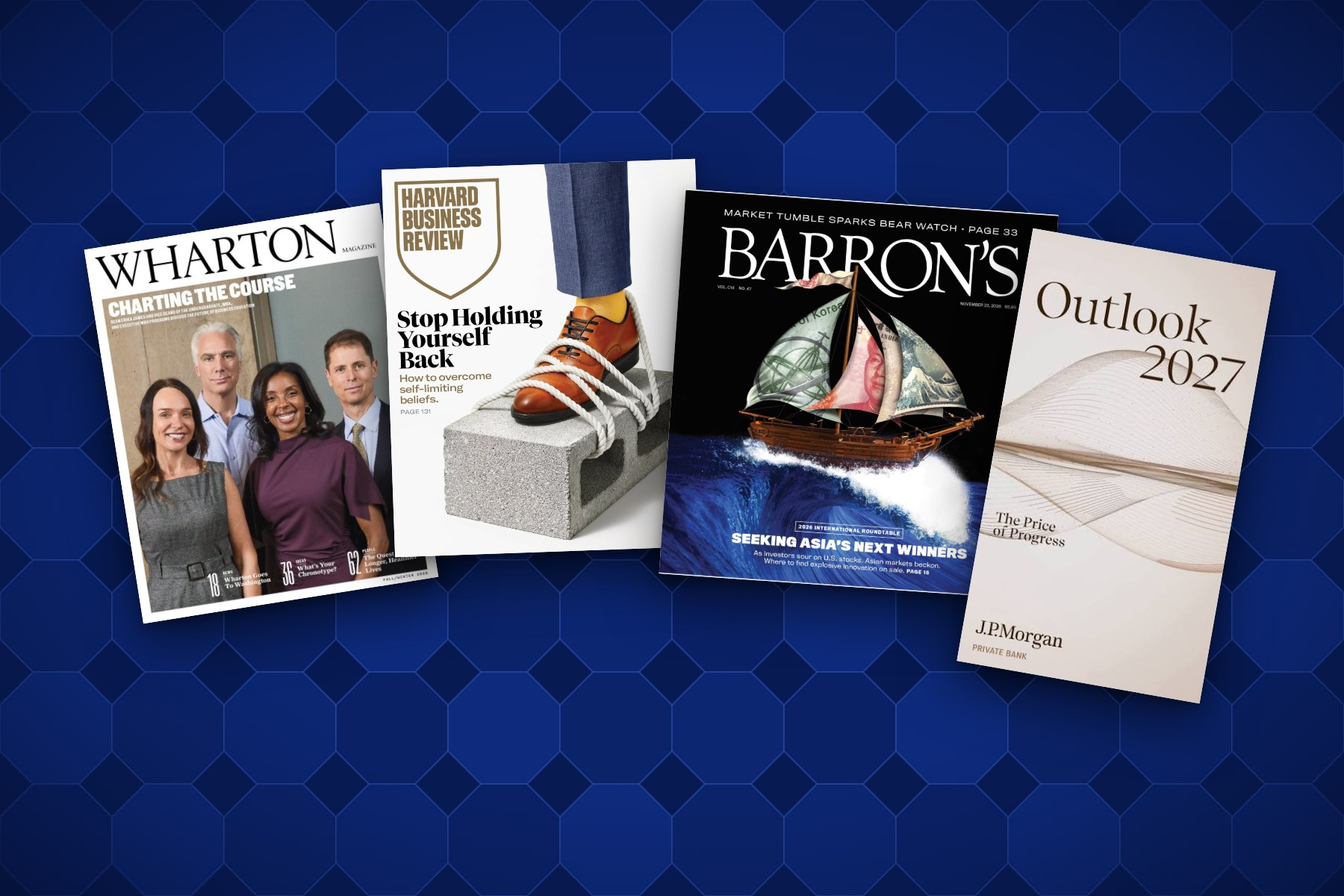
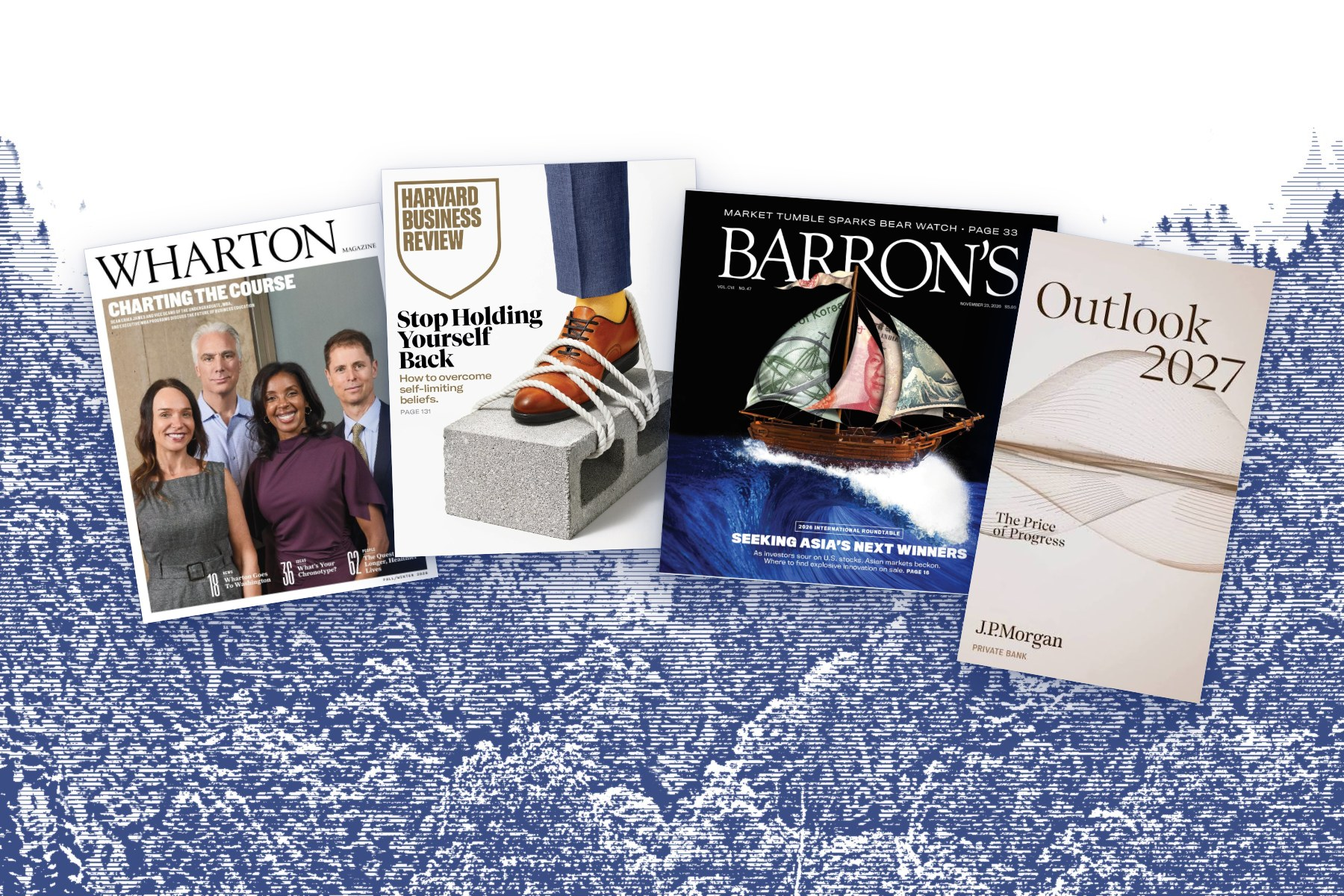
Internal Goal images: engraved forest and mountain drawings; Jonah Begley back as Member & Co-Founder (Equities: Tech)
Claude-Session: https://claude.ai/code/session_01XXFitNW75T7fmA4nKLMVQM

diff --git a/investment-team.html b/investment-team.html
@@ -30,7 +30,7 @@
 // Starts on the dome clip (8s into the second file), then cycles: first clip, second clip, repeat.
 (function(){const v=document.getElementById('teamVideo'),list=['/media/apply-brown.mp4','/media/apply-dartmouth.mp4'];let i=-1;v.addEventListener('ended',()=>{i=(i+1)%list.length;v.src=list[i];v.play().catch(()=>{})});})();
 </script>
-<section class="rtabs" id="research"><div class="rt-head"><h2 class="rv">Research Teams</h2></div><div class="rt-bar"><div class="rt-tabs" role="tablist" aria-label="Research teams"><span class="rt-ind" aria-hidden="true"></span><button role="tab" id="t-quantitative-strategies" aria-controls="p-quantitative-strategies" aria-selected="true" tabindex="0">Global Quantitative Strategies</button><button role="tab" id="t-venture-capital" aria-controls="p-venture-capital" aria-selected="false" tabindex="-1">Venture Capital</button><button role="tab" id="t-equities-tech" aria-controls="p-equities-tech" aria-selected="false" tabindex="-1">Equities: Tech</button><button role="tab" id="t-equities-retail" aria-controls="p-equities-retail" aria-selected="false" tabindex="-1">Equities: Retail</button><button role="tab" id="t-equities-financials" aria-controls="p-equities-financials" aria-selected="false" tabindex="-1">Equities: Financials</button><button role="tab" id="t-equities-industrials" aria-controls="p-equities-industrials" aria-selected="false" tabindex="-1">Equities: Industrials</button><button role="tab" id="t-energy-infrastructure" aria-controls="p-energy-infrastructure" aria-selected="false" tabindex="-1">Energy &amp; Infrastructure</button><button role="tab" id="t-fixed-income" aria-controls="p-fixed-income" aria-selected="false" tabindex="-1">Fixed Income</button><button role="tab" id="t-real-estate" aria-controls="p-real-estate" aria-selected="false" tabindex="-1">Real Estate</button></div></div><div class="rt-body"><div class="rt-panel on" role="tabpanel" id="p-quantitative-strategies" aria-labelledby="t-quantitative-strategies"><div class="rt-top"><h3>Global Quantitative Strategies</h3><p>Builds and tests systematic strategies using market, macroeconomic, and alternative data across global asset classes.</p></div><div class="pgrid"><a class="pc d0" href="https://www.linkedin.com/in/andrew-watcharananan-627aa9348/" target="_blank" rel="noopener"><h3>Andrew Watcharananan</h3><p class="pt">Portfolio Manager</p><p class="ps">Columbia University</p><div class="ph pic"><img src="/media/people/andrew-watcharananan.jpg" alt="Andrew Watcharananan" loading="lazy"></div></a><a class="pc d1" href="https://www.linkedin.com/in/johnny-guo-212bb22a5/" target="_blank" rel="noopener"><h3>Johnny Guo</h3><p class="pt">Associate Portfolio Manager</p><p class="ps">Yale University</p><div class="ph pic"><img src="/media/people/johnny-guo.jpg" alt="Johnny Guo" loading="lazy"></div></a><a class="pc d2" href="https://www.linkedin.com/in/varis-karuhadej-542616330/" target="_blank" rel="noopener"><h3>Dean Karuhadej</h3><p class="pt">Associate Portfolio Manager</p><p class="ps">Columbia University</p><div class="ph pic"><img src="/media/people/dean-karuhadej.jpg" alt="Dean Karuhadej" loading="lazy"></div></a><a class="pc d3" href="https://www.linkedin.com/in/ryancasey-/" target="_blank" rel="noopener"><h3>Ryan Casey</h3><p class="pt">Associate Portfolio Manager</p><p class="ps">Harvard University</p><div class="ph pic"><img src="/media/people/ryan-casey.jpg" alt="Ryan Casey" loading="lazy"></div></a><a class="pc d0" href="https://www.linkedin.com/in/aituar-kurmambay-4238bb3a1/" target="_blank" rel="noopener"><h3>Aituar Kurmambay</h3><p class="pt">Associate Portfolio Manager</p><p class="ps">Columbia University</p><div class="ph pic"><img src="/media/people/aituar-kurmambay.jpg" alt="Aituar Kurmambay" loading="lazy"></div></a><a class="pc d1" href="https://www.linkedin.com/in/giacomo-maffre/" target="_blank" rel="noopener"><h3>Giacomo Maffre</h3><p class="pt">Member</p><p class="ps">University of Pennsylvania</p><div class="ph pic"><img src="/media/people/giacomo-maffre.jpg?v=2" alt="Giacomo Maffre" loading="lazy"></div></a></div></div><div class="rt-panel" role="tabpanel" id="p-venture-capital" aria-labelledby="t-venture-capital" hidden><div class="rt-top"><h3>Venture Capital</h3><p>Sources and evaluates early-stage private companies, covering markets, founders, and deal terms.</p></div><div class="pgrid"><a class="pc d0" href="https://www.linkedin.com/in/ryan-watach/" target="_blank" rel="noopener"><h3>Ryan Watach</h3><p class="pt">Portfolio Manager</p><p class="ps">University of Pennsylvania</p><div class="ph pic"><img src="/media/people/ryan-watach.jpg" alt="Ryan Watach" loading="lazy"></div></a><a class="pc d1" href="https://www.linkedin.com/in/stanley-yang-933652369/" target="_blank" rel="noopener"><h3>Stanley Yang</h3><p class="pt">Associate Portfolio Manager</p><p class="ps">University of Pennsylvania</p><div class="ph pic"><img src="/media/people/stanley-yang.jpg" alt="Stanley Yang" loading="lazy"></div></a><article class="pc d2"><h3>First Last</h3><p class="pt">Associate Portfolio Manager</p><p class="ps">School</p><div class="ph"><span></span></div></article><a class="pc d3" href="https://www.linkedin.com/in/james-horangic-314026364/" target="_blank" rel="noopener"><h3>James Horangic</h3><p class="pt">Member</p><p class="ps">University of Pennsylvania</p><div class="ph pic"><img src="/media/people/james-horangic.jpg" alt="James Horangic" loading="lazy"></div></a></div></div><div class="rt-panel" role="tabpanel" id="p-equities-tech" aria-labelledby="t-equities-tech" hidden><div class="rt-top"><h3>Equities: Tech</h3><p>Covers public technology companies, including software, semiconductors, and internet platforms.</p></div><div class="pgrid"><article class="pc d0"><h3>First Last</h3><p class="pt">Portfolio Manager</p><p class="ps">School</p><div class="ph"><span></span></div></article><article class="pc d1"><h3>First Last</h3><p class="pt">Associate Portfolio Manager</p><p class="ps">School</p><div class="ph"><span></span></div></article><article class="pc d2"><h3>First Last</h3><p class="pt">Associate Portfolio Manager</p><p class="ps">School</p><div class="ph"><span></span></div></article><a class="pc d3" href="https://www.linkedin.com/in/david-bratucu/" target="_blank" rel="noopener"><h3>David Bratucu</h3><p class="pt">Member</p><p class="ps">University of Pennsylvania</p><div class="ph pic"><img src="/media/people/david-bratucu.jpg" alt="David Bratucu" loading="lazy"></div></a><a class="pc d0" href="https://www.linkedin.com/in/sisixu08/" target="_blank" rel="noopener"><h3>Sisi Xu</h3><p class="pt">Member</p><p class="ps">Cornell University</p><div class="ph pic"><img src="/media/people/sisi-xu.jpg" alt="Sisi Xu" loading="lazy"></div></a><a class="pc d1" href="https://www.linkedin.com/in/amelie-piergentili-b832072a5/" target="_blank" rel="noopener"><h3>Amelie Piergentili</h3><p class="pt">Member</p><p class="ps">Columbia University</p><div class="ph pic"><img src="/media/people/amelie-piergentili.jpg" alt="Amelie Piergentili" loading="lazy"></div></a><a class="pc d2" href="https://www.linkedin.com/in/rasmus-suonio/" target="_blank" rel="noopener"><h3>Rasmus Suonio</h3><p class="pt">Member</p><p class="ps">University of Pennsylvania</p><div class="ph pic"><img src="/media/people/rasmus-suonio.jpg" alt="Rasmus Suonio" loading="lazy"></div></a></div></div><div class="rt-panel" role="tabpanel" id="p-equities-retail" aria-labelledby="t-equities-retail" hidden><div class="rt-top"><h3>Equities: Retail</h3><p>Covers public consumer and retail companies, tracking spending trends, margins, and brands.</p></div><div class="pgrid"><article class="pc d0"><h3>First Last</h3><p class="pt">Portfolio Manager</p><p class="ps">School</p><div class="ph"><span></span></div></article><a class="pc d1" href="https://www.linkedin.com/in/buhlebenkosi-mhlongo-895285361/" target="_blank" rel="noopener"><h3>Buhlebenkosi Mhlongo</h3><p class="pt">Associate Portfolio Manager</p><p class="ps">Harvard University</p><div class="ph pic"><img src="/media/people/buhlebenkosi-mhlongo.jpg" alt="Buhlebenkosi Mhlongo" loading="lazy"></div></a><article class="pc d2"><h3>First Last</h3><p class="pt">Associate Portfolio Manager</p><p class="ps">School</p><div class="ph"><span></span></div></article><a class="pc d3" href="https://www.linkedin.com/in/luke-w-pierce/" target="_blank" rel="noopener"><h3>Luke Pierce</h3><p class="pt">Member</p><p class="ps">Princeton University</p><div class="ph pic"><img src="/media/people/luke-pierce.jpg" alt="Luke Pierce" loading="lazy"></div></a><a class="pc d0" href="https://www.linkedin.com/in/lela-dicrescenzo-b72959371/" target="_blank" rel="noopener"><h3>Lela DiCrescenzo</h3><p class="pt">Member</p><p class="ps">Columbia University</p><div class="ph pic"><img src="/media/people/lela-dicrescenzo.jpg" alt="Lela DiCrescenzo" loading="lazy"></div></a></div></div><div class="rt-panel" role="tabpanel" id="p-equities-financials" aria-labelledby="t-equities-financials" hidden><div class="rt-top"><h3>Equities: Financials</h3><p>Covers public banks, insurers, asset managers, and payments companies, tracking rates, credit quality, and capital.</p></div><div class="pgrid"><a class="pc d0" href="https://www.linkedin.com/in/asherwan/" target="_blank" rel="noopener"><h3>Asher Wan</h3><p class="pt">Portfolio Manager</p><p class="ps">University of Pennsylvania</p><div class="ph pic"><img src="/media/people/asher-wan.jpg" alt="Asher Wan" loading="lazy"></div></a><article class="pc d1"><h3>First Last</h3><p class="pt">Associate Portfolio Manager</p><p class="ps">School</p><div class="ph"><span></span></div></article><article class="pc d2"><h3>First Last</h3><p class="pt">Associate Portfolio Manager</p><p class="ps">School</p><div class="ph"><span></span></div></article><a class="pc d3" href="https://www.linkedin.com/in/daniel-adibi-05885a239/" target="_blank" rel="noopener"><h3>Daniel Adibi</h3><p class="pt">Member</p><p class="ps">Harvard University</p><div class="ph pic"><img src="/media/people/daniel-adibi.jpg" alt="Daniel Adibi" loading="lazy"></div></a><a class="pc d0" href="https://www.linkedin.com/in/krish-bharwani-aa0626313/" target="_blank" rel="noopener"><h3>Krish Bharwani</h3><p class="pt">Member</p><p class="ps">Princeton University</p><div class="ph"><span></span></div></a></div></div><div class="rt-panel" role="tabpanel" id="p-equities-industrials" aria-labelledby="t-equities-industrials" hidden><div class="rt-top"><h3>Equities: Industrials</h3><p>Covers public industrial companies, including aerospace, defense, machinery, and transportation, tracking orders, backlogs, and margins.</p></div><div class="pgrid"><a class="pc d0" href="https://www.linkedin.com/in/adam-polzien-0a29a1262/" target="_blank" rel="noopener"><h3>Adam Polzien</h3><p class="pt">Portfolio Manager</p><p class="ps">University of Pennsylvania</p><div class="ph pic"><img src="/media/people/adam-polzien.jpg" alt="Adam Polzien" loading="lazy"></div></a><article class="pc d1"><h3>First Last</h3><p class="pt">Associate Portfolio Manager</p><p class="ps">School</p><div class="ph"><span></span></div></article><article class="pc d2"><h3>First Last</h3><p class="pt">Associate Portfolio Manager</p><p class="ps">School</p><div class="ph"><span></span></div></article><a class="pc d3" href="https://www.linkedin.com/in/hugoeechaute/" target="_blank" rel="noopener"><h3>Hugo Eechaute</h3><p class="pt">Member</p><p class="ps">Columbia University</p><div class="ph pic"><img src="/media/people/hugo-eechaute.jpg" alt="Hugo Eechaute" loading="lazy"></div></a><a class="pc d0" href="https://www.linkedin.com/in/aura-ackerman-sandoval-3507b33ba/" target="_blank" rel="noopener"><h3>Aura Ackerman Sandoval</h3><p class="pt">Member</p><p class="ps">Columbia University</p><div class="ph pic"><img src="/media/people/aura-ackerman-sandoval.jpg" alt="Aura Ackerman Sandoval" loading="lazy"></div></a></div></div><div class="rt-panel" role="tabpanel" id="p-energy-infrastructure" aria-labelledby="t-energy-infrastructure" hidden><div class="rt-top"><h3>Energy &amp; Infrastructure</h3><p>Covers oil, gas, power, renewables, and infrastructure, tracking commodity prices, supply, and policy.</p></div><div class="pgrid"><a class="pc d0" href="https://www.linkedin.com/in/arnusikon/" target="_blank" rel="noopener"><h3>Arna Rakhimbergenova</h3><p class="pt">Portfolio Manager</p><p class="ps">University of Pennsylvania</p><div class="ph pic"><img src="/media/people/arna-rakhimbergenova.jpg" alt="Arna Rakhimbergenova" loading="lazy"></div></a><article class="pc d1"><h3>First Last</h3><p class="pt">Associate Portfolio Manager</p><p class="ps">School</p><div class="ph"><span></span></div></article><article class="pc d2"><h3>First Last</h3><p class="pt">Associate Portfolio Manager</p><p class="ps">School</p><div class="ph"><span></span></div></article><a class="pc d3" href="https://www.linkedin.com/in/fateh-arif-kerimli/" target="_blank" rel="noopener"><h3>Fateh Arif Kerimli</h3><p class="pt">Member &amp; Co-Founder</p><p class="ps">Columbia University</p><div class="ph pic"><img src="/media/people/fateh-arif-kerimli.jpg" alt="Fateh Arif Kerimli" loading="lazy"></div></a></div></div><div class="rt-panel" role="tabpanel" id="p-fixed-income" aria-labelledby="t-fixed-income" hidden><div class="rt-top"><h3>Fixed Income</h3><p>Analyzes government and corporate bonds, credit spreads, and interest-rate positioning.</p></div><div class="pgrid"><article class="pc d0"><h3>First Last</h3><p class="pt">Portfolio Manager</p><p class="ps">School</p><div class="ph"><span></span></div></article><a class="pc d1" href="https://www.linkedin.com/in/manuel-trelles-a559a437a/" target="_blank" rel="noopener"><h3>Manuel Trelles</h3><p class="pt">Associate Portfolio Manager</p><p class="ps">Columbia University</p><div class="ph pic"><img src="/media/people/manuel-trelles.jpg" alt="Manuel Trelles" loading="lazy"></div></a><article class="pc d2"><h3>First Last</h3><p class="pt">Associate Portfolio Manager</p><p class="ps">School</p><div class="ph"><span></span></div></article><a class="pc d3" href="https://www.linkedin.com/in/jiminkarenpark/" target="_blank" rel="noopener"><h3>Karen Park</h3><p class="pt">Member</p><p class="ps">Dartmouth College</p><div class="ph pic"><img src="/media/people/karen-park.jpg" alt="Karen Park" loading="lazy"></div></a><a class="pc d0" href="https://www.linkedin.com/in/ethanwind/" target="_blank" rel="noopener"><h3>Ethan Wind</h3><p class="pt">Member</p><p class="ps">University of Pennsylvania</p><div class="ph pic"><img src="/media/people/ethan-wind.jpg" alt="Ethan Wind" loading="lazy"></div></a></div></div><div class="rt-panel" role="tabpanel" id="p-real-estate" aria-labelledby="t-real-estate" hidden><div class="rt-top"><h3>Real Estate</h3><p>Covers REITs and property markets, including valuation, financing conditions, and sector trends.</p></div><div class="pgrid"><a class="pc d0" href="https://www.linkedin.com/in/pavani-rhoads-0348582a5/" target="_blank" rel="noopener"><h3>Pavani Rhoads</h3><p class="pt">Portfolio Manager</p><p class="ps">Columbia University</p><div class="ph pic"><img src="/media/people/pavani-rhoads.jpg" alt="Pavani Rhoads" loading="lazy"></div></a><article class="pc d1"><h3>First Last</h3><p class="pt">Associate Portfolio Manager</p><p class="ps">School</p><div class="ph"><span></span></div></article><article class="pc d2"><h3>First Last</h3><p class="pt">Associate Portfolio Manager</p><p class="ps">School</p><div class="ph"><span></span></div></article><a class="pc d3" href="https://www.linkedin.com/in/albert-armin-07110026b/" target="_blank" rel="noopener"><h3>Albert Armin</h3><p class="pt">Member</p><p class="ps">University of Pennsylvania</p><div class="ph pic"><img src="/media/people/albert-armin.jpg" alt="Albert Armin" loading="lazy"></div></a><a class="pc d0" href="https://www.linkedin.com/in/skalochoritis/" target="_blank" rel="noopener"><h3>Sophia Kalochoritis</h3><p class="pt">Member</p><p class="ps">Columbia University</p><div class="ph pic"><img src="/media/people/sophia-kalochoritis.jpg" alt="Sophia Kalochoritis" loading="lazy"></div></a></div></div></div></section>
+<section class="rtabs" id="research"><div class="rt-head"><h2 class="rv">Research Teams</h2></div><div class="rt-bar"><div class="rt-tabs" role="tablist" aria-label="Research teams"><span class="rt-ind" aria-hidden="true"></span><button role="tab" id="t-quantitative-strategies" aria-controls="p-quantitative-strategies" aria-selected="true" tabindex="0">Global Quantitative Strategies</button><button role="tab" id="t-venture-capital" aria-controls="p-venture-capital" aria-selected="false" tabindex="-1">Venture Capital</button><button role="tab" id="t-equities-tech" aria-controls="p-equities-tech" aria-selected="false" tabindex="-1">Equities: Tech</button><button role="tab" id="t-equities-retail" aria-controls="p-equities-retail" aria-selected="false" tabindex="-1">Equities: Retail</button><button role="tab" id="t-equities-financials" aria-controls="p-equities-financials" aria-selected="false" tabindex="-1">Equities: Financials</button><button role="tab" id="t-equities-industrials" aria-controls="p-equities-industrials" aria-selected="false" tabindex="-1">Equities: Industrials</button><button role="tab" id="t-energy-infrastructure" aria-controls="p-energy-infrastructure" aria-selected="false" tabindex="-1">Energy &amp; Infrastructure</button><button role="tab" id="t-fixed-income" aria-controls="p-fixed-income" aria-selected="false" tabindex="-1">Fixed Income</button><button role="tab" id="t-real-estate" aria-controls="p-real-estate" aria-selected="false" tabindex="-1">Real Estate</button></div></div><div class="rt-body"><div class="rt-panel on" role="tabpanel" id="p-quantitative-strategies" aria-labelledby="t-quantitative-strategies"><div class="rt-top"><h3>Global Quantitative Strategies</h3><p>Builds and tests systematic strategies using market, macroeconomic, and alternative data across global asset classes.</p></div><div class="pgrid"><a class="pc d0" href="https://www.linkedin.com/in/andrew-watcharananan-627aa9348/" target="_blank" rel="noopener"><h3>Andrew Watcharananan</h3><p class="pt">Portfolio Manager</p><p class="ps">Columbia University</p><div class="ph pic"><img src="/media/people/andrew-watcharananan.jpg" alt="Andrew Watcharananan" loading="lazy"></div></a><a class="pc d1" href="https://www.linkedin.com/in/johnny-guo-212bb22a5/" target="_blank" rel="noopener"><h3>Johnny Guo</h3><p class="pt">Associate Portfolio Manager</p><p class="ps">Yale University</p><div class="ph pic"><img src="/media/people/johnny-guo.jpg" alt="Johnny Guo" loading="lazy"></div></a><a class="pc d2" href="https://www.linkedin.com/in/varis-karuhadej-542616330/" target="_blank" rel="noopener"><h3>Dean Karuhadej</h3><p class="pt">Associate Portfolio Manager</p><p class="ps">Columbia University</p><div class="ph pic"><img src="/media/people/dean-karuhadej.jpg" alt="Dean Karuhadej" loading="lazy"></div></a><a class="pc d3" href="https://www.linkedin.com/in/ryancasey-/" target="_blank" rel="noopener"><h3>Ryan Casey</h3><p class="pt">Associate Portfolio Manager</p><p class="ps">Harvard University</p><div class="ph pic"><img src="/media/people/ryan-casey.jpg" alt="Ryan Casey" loading="lazy"></div></a><a class="pc d0" href="https://www.linkedin.com/in/aituar-kurmambay-4238bb3a1/" target="_blank" rel="noopener"><h3>Aituar Kurmambay</h3><p class="pt">Associate Portfolio Manager</p><p class="ps">Columbia University</p><div class="ph pic"><img src="/media/people/aituar-kurmambay.jpg" alt="Aituar Kurmambay" loading="lazy"></div></a><a class="pc d1" href="https://www.linkedin.com/in/giacomo-maffre/" target="_blank" rel="noopener"><h3>Giacomo Maffre</h3><p class="pt">Member</p><p class="ps">University of Pennsylvania</p><div class="ph pic"><img src="/media/people/giacomo-maffre.jpg?v=2" alt="Giacomo Maffre" loading="lazy"></div></a></div></div><div class="rt-panel" role="tabpanel" id="p-venture-capital" aria-labelledby="t-venture-capital" hidden><div class="rt-top"><h3>Venture Capital</h3><p>Sources and evaluates early-stage private companies, covering markets, founders, and deal terms.</p></div><div class="pgrid"><a class="pc d0" href="https://www.linkedin.com/in/ryan-watach/" target="_blank" rel="noopener"><h3>Ryan Watach</h3><p class="pt">Portfolio Manager</p><p class="ps">University of Pennsylvania</p><div class="ph pic"><img src="/media/people/ryan-watach.jpg" alt="Ryan Watach" loading="lazy"></div></a><a class="pc d1" href="https://www.linkedin.com/in/stanley-yang-933652369/" target="_blank" rel="noopener"><h3>Stanley Yang</h3><p class="pt">Associate Portfolio Manager</p><p class="ps">University of Pennsylvania</p><div class="ph pic"><img src="/media/people/stanley-yang.jpg" alt="Stanley Yang" loading="lazy"></div></a><article class="pc d2"><h3>First Last</h3><p class="pt">Associate Portfolio Manager</p><p class="ps">School</p><div class="ph"><span></span></div></article><a class="pc d3" href="https://www.linkedin.com/in/james-horangic-314026364/" target="_blank" rel="noopener"><h3>James Horangic</h3><p class="pt">Member</p><p class="ps">University of Pennsylvania</p><div class="ph pic"><img src="/media/people/james-horangic.jpg" alt="James Horangic" loading="lazy"></div></a></div></div><div class="rt-panel" role="tabpanel" id="p-equities-tech" aria-labelledby="t-equities-tech" hidden><div class="rt-top"><h3>Equities: Tech</h3><p>Covers public technology companies, including software, semiconductors, and internet platforms.</p></div><div class="pgrid"><article class="pc d0"><h3>First Last</h3><p class="pt">Portfolio Manager</p><p class="ps">School</p><div class="ph"><span></span></div></article><article class="pc d1"><h3>First Last</h3><p class="pt">Associate Portfolio Manager</p><p class="ps">School</p><div class="ph"><span></span></div></article><article class="pc d2"><h3>First Last</h3><p class="pt">Associate Portfolio Manager</p><p class="ps">School</p><div class="ph"><span></span></div></article><a class="pc d3" href="https://www.linkedin.com/in/david-bratucu/" target="_blank" rel="noopener"><h3>David Bratucu</h3><p class="pt">Member</p><p class="ps">University of Pennsylvania</p><div class="ph pic"><img src="/media/people/david-bratucu.jpg" alt="David Bratucu" loading="lazy"></div></a><a class="pc d0" href="https://www.linkedin.com/in/sisixu08/" target="_blank" rel="noopener"><h3>Sisi Xu</h3><p class="pt">Member</p><p class="ps">Cornell University</p><div class="ph pic"><img src="/media/people/sisi-xu.jpg" alt="Sisi Xu" loading="lazy"></div></a><a class="pc d1" href="https://www.linkedin.com/in/amelie-piergentili-b832072a5/" target="_blank" rel="noopener"><h3>Amelie Piergentili</h3><p class="pt">Member</p><p class="ps">Columbia University</p><div class="ph pic"><img src="/media/people/amelie-piergentili.jpg" alt="Amelie Piergentili" loading="lazy"></div></a><a class="pc d2" href="https://www.linkedin.com/in/rasmus-suonio/" target="_blank" rel="noopener"><h3>Rasmus Suonio</h3><p class="pt">Member</p><p class="ps">University of Pennsylvania</p><div class="ph pic"><img src="/media/people/rasmus-suonio.jpg" alt="Rasmus Suonio" loading="lazy"></div></a><a class="pc d3" href="https://www.linkedin.com/in/jonah-begley-b0b92322a/" target="_blank" rel="noopener"><h3>Jonah Begley</h3><p class="pt">Member &amp; Co-Founder</p><p class="ps">University of Pennsylvania</p><div class="ph pic"><img src="/media/people/jonah-begley.jpg" alt="Jonah Begley" loading="lazy"></div></a></div></div><div class="rt-panel" role="tabpanel" id="p-equities-retail" aria-labelledby="t-equities-retail" hidden><div class="rt-top"><h3>Equities: Retail</h3><p>Covers public consumer and retail companies, tracking spending trends, margins, and brands.</p></div><div class="pgrid"><article class="pc d0"><h3>First Last</h3><p class="pt">Portfolio Manager</p><p class="ps">School</p><div class="ph"><span></span></div></article><a class="pc d1" href="https://www.linkedin.com/in/buhlebenkosi-mhlongo-895285361/" target="_blank" rel="noopener"><h3>Buhlebenkosi Mhlongo</h3><p class="pt">Associate Portfolio Manager</p><p class="ps">Harvard University</p><div class="ph pic"><img src="/media/people/buhlebenkosi-mhlongo.jpg" alt="Buhlebenkosi Mhlongo" loading="lazy"></div></a><article class="pc d2"><h3>First Last</h3><p class="pt">Associate Portfolio Manager</p><p class="ps">School</p><div class="ph"><span></span></div></article><a class="pc d3" href="https://www.linkedin.com/in/luke-w-pierce/" target="_blank" rel="noopener"><h3>Luke Pierce</h3><p class="pt">Member</p><p class="ps">Princeton University</p><div class="ph pic"><img src="/media/people/luke-pierce.jpg" alt="Luke Pierce" loading="lazy"></div></a><a class="pc d0" href="https://www.linkedin.com/in/lela-dicrescenzo-b72959371/" target="_blank" rel="noopener"><h3>Lela DiCrescenzo</h3><p class="pt">Member</p><p class="ps">Columbia University</p><div class="ph pic"><img src="/media/people/lela-dicrescenzo.jpg" alt="Lela DiCrescenzo" loading="lazy"></div></a></div></div><div class="rt-panel" role="tabpanel" id="p-equities-financials" aria-labelledby="t-equities-financials" hidden><div class="rt-top"><h3>Equities: Financials</h3><p>Covers public banks, insurers, asset managers, and payments companies, tracking rates, credit quality, and capital.</p></div><div class="pgrid"><a class="pc d0" href="https://www.linkedin.com/in/asherwan/" target="_blank" rel="noopener"><h3>Asher Wan</h3><p class="pt">Portfolio Manager</p><p class="ps">University of Pennsylvania</p><div class="ph pic"><img src="/media/people/asher-wan.jpg" alt="Asher Wan" loading="lazy"></div></a><article class="pc d1"><h3>First Last</h3><p class="pt">Associate Portfolio Manager</p><p class="ps">School</p><div class="ph"><span></span></div></article><article class="pc d2"><h3>First Last</h3><p class="pt">Associate Portfolio Manager</p><p class="ps">School</p><div class="ph"><span></span></div></article><a class="pc d3" href="https://www.linkedin.com/in/daniel-adibi-05885a239/" target="_blank" rel="noopener"><h3>Daniel Adibi</h3><p class="pt">Member</p><p class="ps">Harvard University</p><div class="ph pic"><img src="/media/people/daniel-adibi.jpg" alt="Daniel Adibi" loading="lazy"></div></a><a class="pc d0" href="https://www.linkedin.com/in/krish-bharwani-aa0626313/" target="_blank" rel="noopener"><h3>Krish Bharwani</h3><p class="pt">Member</p><p class="ps">Princeton University</p><div class="ph"><span></span></div></a></div></div><div class="rt-panel" role="tabpanel" id="p-equities-industrials" aria-labelledby="t-equities-industrials" hidden><div class="rt-top"><h3>Equities: Industrials</h3><p>Covers public industrial companies, including aerospace, defense, machinery, and transportation, tracking orders, backlogs, and margins.</p></div><div class="pgrid"><a class="pc d0" href="https://www.linkedin.com/in/adam-polzien-0a29a1262/" target="_blank" rel="noopener"><h3>Adam Polzien</h3><p class="pt">Portfolio Manager</p><p class="ps">University of Pennsylvania</p><div class="ph pic"><img src="/media/people/adam-polzien.jpg" alt="Adam Polzien" loading="lazy"></div></a><article class="pc d1"><h3>First Last</h3><p class="pt">Associate Portfolio Manager</p><p class="ps">School</p><div class="ph"><span></span></div></article><article class="pc d2"><h3>First Last</h3><p class="pt">Associate Portfolio Manager</p><p class="ps">School</p><div class="ph"><span></span></div></article><a class="pc d3" href="https://www.linkedin.com/in/hugoeechaute/" target="_blank" rel="noopener"><h3>Hugo Eechaute</h3><p class="pt">Member</p><p class="ps">Columbia University</p><div class="ph pic"><img src="/media/people/hugo-eechaute.jpg" alt="Hugo Eechaute" loading="lazy"></div></a><a class="pc d0" href="https://www.linkedin.com/in/aura-ackerman-sandoval-3507b33ba/" target="_blank" rel="noopener"><h3>Aura Ackerman Sandoval</h3><p class="pt">Member</p><p class="ps">Columbia University</p><div class="ph pic"><img src="/media/people/aura-ackerman-sandoval.jpg" alt="Aura Ackerman Sandoval" loading="lazy"></div></a></div></div><div class="rt-panel" role="tabpanel" id="p-energy-infrastructure" aria-labelledby="t-energy-infrastructure" hidden><div class="rt-top"><h3>Energy &amp; Infrastructure</h3><p>Covers oil, gas, power, renewables, and infrastructure, tracking commodity prices, supply, and policy.</p></div><div class="pgrid"><a class="pc d0" href="https://www.linkedin.com/in/arnusikon/" target="_blank" rel="noopener"><h3>Arna Rakhimbergenova</h3><p class="pt">Portfolio Manager</p><p class="ps">University of Pennsylvania</p><div class="ph pic"><img src="/media/people/arna-rakhimbergenova.jpg" alt="Arna Rakhimbergenova" loading="lazy"></div></a><article class="pc d1"><h3>First Last</h3><p class="pt">Associate Portfolio Manager</p><p class="ps">School</p><div class="ph"><span></span></div></article><article class="pc d2"><h3>First Last</h3><p class="pt">Associate Portfolio Manager</p><p class="ps">School</p><div class="ph"><span></span></div></article><a class="pc d3" href="https://www.linkedin.com/in/fateh-arif-kerimli/" target="_blank" rel="noopener"><h3>Fateh Arif Kerimli</h3><p class="pt">Member &amp; Co-Founder</p><p class="ps">Columbia University</p><div class="ph pic"><img src="/media/people/fateh-arif-kerimli.jpg" alt="Fateh Arif Kerimli" loading="lazy"></div></a></div></div><div class="rt-panel" role="tabpanel" id="p-fixed-income" aria-labelledby="t-fixed-income" hidden><div class="rt-top"><h3>Fixed Income</h3><p>Analyzes government and corporate bonds, credit spreads, and interest-rate positioning.</p></div><div class="pgrid"><article class="pc d0"><h3>First Last</h3><p class="pt">Portfolio Manager</p><p class="ps">School</p><div class="ph"><span></span></div></article><a class="pc d1" href="https://www.linkedin.com/in/manuel-trelles-a559a437a/" target="_blank" rel="noopener"><h3>Manuel Trelles</h3><p class="pt">Associate Portfolio Manager</p><p class="ps">Columbia University</p><div class="ph pic"><img src="/media/people/manuel-trelles.jpg" alt="Manuel Trelles" loading="lazy"></div></a><article class="pc d2"><h3>First Last</h3><p class="pt">Associate Portfolio Manager</p><p class="ps">School</p><div class="ph"><span></span></div></article><a class="pc d3" href="https://www.linkedin.com/in/jiminkarenpark/" target="_blank" rel="noopener"><h3>Karen Park</h3><p class="pt">Member</p><p class="ps">Dartmouth College</p><div class="ph pic"><img src="/media/people/karen-park.jpg" alt="Karen Park" loading="lazy"></div></a><a class="pc d0" href="https://www.linkedin.com/in/ethanwind/" target="_blank" rel="noopener"><h3>Ethan Wind</h3><p class="pt">Member</p><p class="ps">University of Pennsylvania</p><div class="ph pic"><img src="/media/people/ethan-wind.jpg" alt="Ethan Wind" loading="lazy"></div></a></div></div><div class="rt-panel" role="tabpanel" id="p-real-estate" aria-labelledby="t-real-estate" hidden><div class="rt-top"><h3>Real Estate</h3><p>Covers REITs and property markets, including valuation, financing conditions, and sector trends.</p></div><div class="pgrid"><a class="pc d0" href="https://www.linkedin.com/in/pavani-rhoads-0348582a5/" target="_blank" rel="noopener"><h3>Pavani Rhoads</h3><p class="pt">Portfolio Manager</p><p class="ps">Columbia University</p><div class="ph pic"><img src="/media/people/pavani-rhoads.jpg" alt="Pavani Rhoads" loading="lazy"></div></a><article class="pc d1"><h3>First Last</h3><p class="pt">Associate Portfolio Manager</p><p class="ps">School</p><div class="ph"><span></span></div></article><article class="pc d2"><h3>First Last</h3><p class="pt">Associate Portfolio Manager</p><p class="ps">School</p><div class="ph"><span></span></div></article><a class="pc d3" href="https://www.linkedin.com/in/albert-armin-07110026b/" target="_blank" rel="noopener"><h3>Albert Armin</h3><p class="pt">Member</p><p class="ps">University of Pennsylvania</p><div class="ph pic"><img src="/media/people/albert-armin.jpg" alt="Albert Armin" loading="lazy"></div></a><a class="pc d0" href="https://www.linkedin.com/in/skalochoritis/" target="_blank" rel="noopener"><h3>Sophia Kalochoritis</h3><p class="pt">Member</p><p class="ps">Columbia University</p><div class="ph pic"><img src="/media/people/sophia-kalochoritis.jpg" alt="Sophia Kalochoritis" loading="lazy"></div></a></div></div></div></section>
 <script src="/research-tabs.js"></script>
 
 <footer>

diff --git a/what-we-do.html b/what-we-do.html
@@ -33,7 +33,7 @@
   </div>
   <div class="gl-item" id="internal">
     <button class="gl-row" type="button" aria-expanded="false"><span>Internal Goal</span><i class="gl-pm" aria-hidden="true"></i></button>
-    <div class="gl-panel"><div class="gl-inner"><ul class="gl-subs"><li><button class="gl-sub on" type="button">Recruiting &amp; Education</button></li><li><button class="gl-sub" type="button">Committee Research</button></li><li><button class="gl-sub" type="button">Quarter Close &amp; Review</button></li><li><button class="gl-sub" type="button">Q1 Report Published</button></li><li><button class="gl-sub" type="button">Investment</button></li></ul><div class="gl-texts"><div class="gl-text on"><h3>Recruiting &amp; Education</h3><p class="gl-k">When</p><p class="gl-v">January&ndash;February</p><p class="gl-p">Each chapter recruits new analysts at its school through applications and interviews. New members then complete the internal curriculum, with sessions led by senior members.</p><a class="gl-btn" href="/application.html">Apply Now</a></div><div class="gl-text"><h3>Committee Research</h3><p class="gl-k">When</p><p class="gl-v">March</p><p class="gl-p">Every member joins a <a href="/investment-team">committee</a> and does deep research on one or two ideas within its coverage, using alternative data from our partnership with ARGOS ATLAS.</p><a class="gl-btn" href="/application.html">Apply Now</a></div><div class="gl-text"><h3>Quarter Close &amp; Review</h3><p class="gl-k">When</p><p class="gl-v">Early April</p><p class="gl-p">After the quarter closes, the teams come together to review and edit one strong report. The Investment Committee checks every figure and source.</p><a class="gl-btn" href="/application.html">Apply Now</a></div><div class="gl-text"><h3>Q1 Report Published</h3><p class="gl-k">When</p><p class="gl-v">Mid-April</p><p class="gl-p">Bastion publishes the quarterly report internally, and may also publish it externally. The report is shared with partner firms, mentors, and members.</p><a class="gl-btn" href="/application.html">Apply Now</a></div><div class="gl-text"><h3>Investment</h3><p class="gl-k">When</p><p class="gl-v">May</p><p class="gl-p">If a member&rsquo;s idea is chosen, it goes into Locust Partners, our $115K long-only equity fund, sized for a holding period of up to 12 months.</p><a class="gl-btn" href="/application.html">Apply Now</a></div></div><div class="gl-pics"><div class="gl-set on"><img src="/media/goals/internal-edu.jpg" alt="Apple, Netflix and JPMorgan 10-K cover pages" loading="lazy" class="on"></div><div class="gl-set"><img src="/media/goals/internal-committees.jpg" alt="The nine Bastion committees over the New York skyline at night" loading="lazy" class="on"></div><div class="gl-set"><img src="/media/goals/internal-review.jpg" alt="Wharton Magazine, Harvard Business Review, Barron&rsquo;s and J.P. Morgan Outlook 2027" loading="lazy" class="on"></div><div class="gl-set"><img src="/media/goals/internal-q1.jpg" alt="A blank report with a question mark" loading="lazy" class="on"></div><div class="gl-set"><img src="/media/goals/internal-investment.jpg" alt="Bastion Investment Society and Locust Partners" loading="lazy" class="on"></div></div></div></div>
+    <div class="gl-panel"><div class="gl-inner"><ul class="gl-subs"><li><button class="gl-sub on" type="button">Recruiting &amp; Education</button></li><li><button class="gl-sub" type="button">Committee Research</button></li><li><button class="gl-sub" type="button">Quarter Close &amp; Review</button></li><li><button class="gl-sub" type="button">Q1 Report Published</button></li><li><button class="gl-sub" type="button">Investment</button></li></ul><div class="gl-texts"><div class="gl-text on"><h3>Recruiting &amp; Education</h3><p class="gl-k">When</p><p class="gl-v">January&ndash;February</p><p class="gl-p">Each chapter recruits new analysts at its school through applications and interviews. New members then complete the internal curriculum, with sessions led by senior members.</p><a class="gl-btn" href="/application.html">Apply Now</a></div><div class="gl-text"><h3>Committee Research</h3><p class="gl-k">When</p><p class="gl-v">March</p><p class="gl-p">Every member joins a <a href="/investment-team">committee</a> and does deep research on one or two ideas within its coverage, using alternative data from our partnership with ARGOS ATLAS.</p><a class="gl-btn" href="/application.html">Apply Now</a></div><div class="gl-text"><h3>Quarter Close &amp; Review</h3><p class="gl-k">When</p><p class="gl-v">Early April</p><p class="gl-p">After the quarter closes, the teams come together to review and edit one strong report. The Investment Committee checks every figure and source.</p><a class="gl-btn" href="/application.html">Apply Now</a></div><div class="gl-text"><h3>Q1 Report Published</h3><p class="gl-k">When</p><p class="gl-v">Mid-April</p><p class="gl-p">Bastion publishes the quarterly report internally, and may also publish it externally. The report is shared with partner firms, mentors, and members.</p><a class="gl-btn" href="/application.html">Apply Now</a></div><div class="gl-text"><h3>Investment</h3><p class="gl-k">When</p><p class="gl-v">May</p><p class="gl-p">If a member&rsquo;s idea is chosen, it goes into Locust Partners, our $115K long-only equity fund, sized for a holding period of up to 12 months.</p><a class="gl-btn" href="/application.html">Apply Now</a></div></div><div class="gl-pics"><div class="gl-set on"><img src="/media/goals/internal-edu.jpg" alt="Apple, Netflix and JPMorgan 10-K cover pages" loading="lazy" class="on"></div><div class="gl-set"><img src="/media/goals/internal-committees.jpg" alt="The nine Bastion committees over the New York skyline at night" loading="lazy" class="on"></div><div class="gl-set"><img src="/media/goals/internal-review.jpg" alt="Wharton Magazine, Harvard Business Review, Barron&rsquo;s and J.P. Morgan Outlook 2027" loading="lazy" class="on"></div><div class="gl-set"><img src="/media/goals/internal-q1.jpg" alt="A Bastion Q1 report cover" loading="lazy" class="on"></div><div class="gl-set"><img src="/media/goals/internal-investment.jpg" alt="Bastion Investment Society and Locust Partners" loading="lazy" class="on"></div></div></div></div>
   </div>
   <div class="gl-item" id="external">
     <button class="gl-row" type="button" aria-expanded="false"><span>External Goal</span><i class="gl-pm" aria-hidden="true"></i></button>
@@ -84,7 +84,7 @@
   });
 })();
 </script>
-<section class="names-band" aria-label="People we have met"><div class="cx-row r0"><div class="cx-run"><span>Andrew Watcharananan</span> <span>Ryan Casey</span> <span>James Horangic</span> <span>Adam Polzien</span> <span>Albert Armin</span> <span>Rasmus Suonio</span> <span>Fateh Arif Kerimli</span> <span>Manuel Trelles</span> <span>Daniel Adibi</span> <span>Sisi Xu</span> <span>Andrew Watcharananan</span> <span>Ryan Casey</span> <span>James Horangic</span> <span>Adam Polzien</span> <span>Albert Armin</span> <span>Rasmus Suonio</span> <span>Fateh Arif Kerimli</span> <span>Manuel Trelles</span> <span>Daniel Adibi</span> <span>Sisi Xu</span></div></div><div class="cx-row r1"><div class="cx-run"><span>Johnny Guo</span> <span>Aituar Kurmambay</span> <span>Stanley Yang</span> <span>Arna Rakhimbergenova</span> <span>David Bratucu</span> <span>Hugo Eechaute</span> <span>Krish Bharwani</span> <span>Amelie Piergentili</span> <span>Luke Pierce</span> <span>Karen Park</span> <span>Johnny Guo</span> <span>Aituar Kurmambay</span> <span>Stanley Yang</span> <span>Arna Rakhimbergenova</span> <span>David Bratucu</span> <span>Hugo Eechaute</span> <span>Krish Bharwani</span> <span>Amelie Piergentili</span> <span>Luke Pierce</span> <span>Karen Park</span></div></div><div class="cx-row r2"><div class="cx-run"><span>Dean Karuhadej</span> <span>Ryan Watach</span> <span>Asher Wan</span> <span>Pavani Rhoads</span> <span>Giacomo Maffre</span> <span>Sophia Kalochoritis</span> <span>Buhlebenkosi Mhlongo</span> <span>Aura Ackerman Sandoval</span> <span>Ethan Wind</span> <span>Lela DiCrescenzo</span> <span>Dean Karuhadej</span> <span>Ryan Watach</span> <span>Asher Wan</span> <span>Pavani Rhoads</span> <span>Giacomo Maffre</span> <span>Sophia Kalochoritis</span> <span>Buhlebenkosi Mhlongo</span> <span>Aura Ackerman Sandoval</span> <span>Ethan Wind</span> <span>Lela DiCrescenzo</span></div></div></section>
+<section class="names-band" aria-label="People we have met"><div class="cx-row r0"><div class="cx-run"><span>Jonah Begley</span> <span>Andrew Watcharananan</span> <span>Ryan Casey</span> <span>James Horangic</span> <span>Adam Polzien</span> <span>Albert Armin</span> <span>Rasmus Suonio</span> <span>Fateh Arif Kerimli</span> <span>Manuel Trelles</span> <span>Daniel Adibi</span> <span>Sisi Xu</span> <span>Jonah Begley</span> <span>Andrew Watcharananan</span> <span>Ryan Casey</span> <span>James Horangic</span> <span>Adam Polzien</span> <span>Albert Armin</span> <span>Rasmus Suonio</span> <span>Fateh Arif Kerimli</span> <span>Manuel Trelles</span> <span>Daniel Adibi</span> <span>Sisi Xu</span></div></div><div class="cx-row r1"><div class="cx-run"><span>Johnny Guo</span> <span>Aituar Kurmambay</span> <span>Stanley Yang</span> <span>Arna Rakhimbergenova</span> <span>David Bratucu</span> <span>Hugo Eechaute</span> <span>Krish Bharwani</span> <span>Amelie Piergentili</span> <span>Luke Pierce</span> <span>Karen Park</span> <span>Johnny Guo</span> <span>Aituar Kurmambay</span> <span>Stanley Yang</span> <span>Arna Rakhimbergenova</span> <span>David Bratucu</span> <span>Hugo Eechaute</span> <span>Krish Bharwani</span> <span>Amelie Piergentili</span> <span>Luke Pierce</span> <span>Karen Park</span></div></div><div class="cx-row r2"><div class="cx-run"><span>Dean Karuhadej</span> <span>Ryan Watach</span> <span>Asher Wan</span> <span>Pavani Rhoads</span> <span>Giacomo Maffre</span> <span>Sophia Kalochoritis</span> <span>Buhlebenkosi Mhlongo</span> <span>Aura Ackerman Sandoval</span> <span>Ethan Wind</span> <span>Lela DiCrescenzo</span> <span>Dean Karuhadej</span> <span>Ryan Watach</span> <span>Asher Wan</span> <span>Pavani Rhoads</span> <span>Giacomo Maffre</span> <span>Sophia Kalochoritis</span> <span>Buhlebenkosi Mhlongo</span> <span>Aura Ackerman Sandoval</span> <span>Ethan Wind</span> <span>Lela DiCrescenzo</span></div></div></section>
 <section class="cx" id="news" aria-label="News">
   <div class="cx-head">
     <h2 class="rv">News</h2>

diff --git a/chapters/chapter-page.js b/chapters/chapter-page.js
@@ -46,6 +46,7 @@
       { name: 'Giacomo Maffre', role: 'Head of Portfolio Analytics', url: 'https://www.linkedin.com/in/giacomo-maffre/', photo: '/media/people/giacomo-maffre.jpg?v=2' },
       { name: 'Rasmus Suonio', role: 'Head of Trading &amp; Execution', url: 'https://www.linkedin.com/in/rasmus-suonio/', photo: '/media/people/rasmus-suonio.jpg' },
       { name: 'Adam Polzien', role: 'Portfolio Manager, Equities: Industrials', url: 'https://www.linkedin.com/in/adam-polzien-0a29a1262/', photo: '/media/people/adam-polzien.jpg' },
+      { name: 'Jonah Begley', role: 'Member &amp; Co-Founder, Equities: Tech', url: 'https://www.linkedin.com/in/jonah-begley-b0b92322a/', photo: '/media/people/jonah-begley.jpg' },
       { name: 'Stanley Yang', role: 'Associate Portfolio Manager, Venture Capital', url: 'https://www.linkedin.com/in/stanley-yang-933652369/', photo: '/media/people/stanley-yang.jpg' }
     ],
     columbia: [
